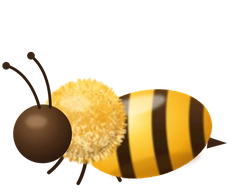
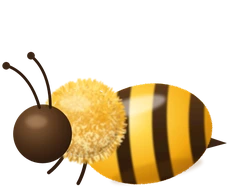
kkotbat: plumper bee abdomen
Claude-Session: https://claude.ai/code/session_0184yXFLd3iSeN51Kdjs7ciF

diff --git a/kkotbat/js/main.js b/kkotbat/js/main.js
@@ -1,14 +1,14 @@
-import { paintMeadow } from './meadow.js?v=1117f';
-import { SeedField } from './seeds.js?v=1117f';
-import { store } from './store.js?v=1117f';
-import { PlantScene } from './plant.js?v=1117f';
-import { GrowScene } from './grow.js?v=1117f';
-import { BloomScene } from './bloom.js?v=1117f';
-import { FlowerField } from './field.js?v=1117f';
-import { GuestbookPanel } from './guestbook.js?v=1117f';
-import { Butterflies } from './butterflies.js?v=1117f';
-import { Bees } from './bees.js?v=1117f';
-import { Ladybugs } from './ladybugs.js?v=1117f';
+import { paintMeadow } from './meadow.js?v=1117g';
+import { SeedField } from './seeds.js?v=1117g';
+import { store } from './store.js?v=1117g';
+import { PlantScene } from './plant.js?v=1117g';
+import { GrowScene } from './grow.js?v=1117g';
+import { BloomScene } from './bloom.js?v=1117g';
+import { FlowerField } from './field.js?v=1117g';
+import { GuestbookPanel } from './guestbook.js?v=1117g';
+import { Butterflies } from './butterflies.js?v=1117g';
+import { Bees } from './bees.js?v=1117g';
+import { Ladybugs } from './ladybugs.js?v=1117g';
 
 // 풀밭(월드) 크기와 지평선 높이
 const WORLD = { width: 3200, height: 2000, horizon: 620 };

diff --git a/kkotbat/js/bees.js b/kkotbat/js/bees.js
@@ -9,9 +9,9 @@ const MAX = 3;
 function beeSVG() {
   const A = 'assets/bee-';
   return `<div class="bee-art" aria-hidden="true">
-    <img class="bee-wing bee-wing-back" src="${A}wingBack.webp?v=1117f" alt="" draggable="false">
-    <img class="bee-body" src="${A}body.webp?v=1117f" alt="" draggable="false">
-    <img class="bee-wing bee-wing-front" src="${A}wingFront.webp?v=1117f" alt="" draggable="false">
+    <img class="bee-wing bee-wing-back" src="${A}wingBack.webp?v=1117g" alt="" draggable="false">
+    <img class="bee-body" src="${A}body.webp?v=1117g" alt="" draggable="false">
+    <img class="bee-wing bee-wing-front" src="${A}wingFront.webp?v=1117g" alt="" draggable="false">
   </div>`;
 }
 

diff --git a/kkotbat/index.html b/kkotbat/index.html
@@ -7,7 +7,7 @@
 <link rel="preconnect" href="https://fonts.googleapis.com">
 <link rel="preconnect" href="https://fonts.gstatic.com" crossorigin>
 <link rel="stylesheet" href="https://fonts.googleapis.com/css2?family=IBM+Plex+Sans+KR:wght@400;500;600;700&display=swap">
-<link rel="stylesheet" href="css/style.css?v=1117f">
+<link rel="stylesheet" href="css/style.css?v=1117g">
 </head>
 <body>
 <div class="app">
@@ -136,6 +136,6 @@
     <div class="toast" id="toast" role="status" aria-live="polite"></div>
   </main>
 </div>
-<script type="module" src="js/main.js?v=1117f"></script>
+<script type="module" src="js/main.js?v=1117g"></script>
 </body>
 </html>

diff --git a/kkotbat/js/field.js b/kkotbat/js/field.js
@@ -4,7 +4,7 @@
 // - 가장 최근에 심어진 꽃 1송이만 은은하게 빛나고 '방금 핀 꽃' 이름표가 붙음.
 //   다음 꽃이 심어지면 강조가 그 꽃으로 넘어감 (여러 사람이 쓰는 꽃밭이라 '내 꽃'을 상시 강조하지 않음)
 
-import { renderRig } from './plantRig.js?v=1117f';
+import { renderRig } from './plantRig.js?v=1117g';
 
 const FLOWER_SIZE = 230; // 풀밭 꽃 크기 (원 안 식물을 이 크기로 축소)
 

diff --git a/kkotbat/js/bloom.js b/kkotbat/js/bloom.js
@@ -3,7 +3,7 @@
 // 04에서 네 번째 미션을 고르면 이어짐: 큰 원 안에 완성된 꽃, 위에서 꽃잎이 흩날리고,
 // 이름과 '고른 순서(레시피)'를 보여준 뒤 '꽃밭에 심기' → 06
 
-import { renderRig } from './plantRig.js?v=1117f';
+import { renderRig } from './plantRig.js?v=1117g';
 
 const $ = (id) => document.getElementById(id);
 const PETAL_COLORS = ['#ffd1e3', '#ffe48a', '#cfe6ff', '#e4d4ff', '#ffffff', '#ffc6b0'];

diff --git a/kkotbat/js/grow.js b/kkotbat/js/grow.js
@@ -5,7 +5,7 @@
 // 미션을 누르면 원 안으로 날아들어가고, 그 즉시 새싹이 변한다.
 // 4개를 고르면 꽃이 피고 'kkotbat:bloomed' 이벤트로 05(개화)에 넘긴다.
 
-import { MISSIONS, SLOTS, renderRig } from './plantRig.js?v=1117f';
+import { MISSIONS, SLOTS, renderRig } from './plantRig.js?v=1117g';
 
 const $ = (id) => document.getElementById(id);
 const VISIBLE = 8;

diff --git a/kkotbat/js/guestbook.js b/kkotbat/js/guestbook.js
@@ -4,7 +4,7 @@
 // - 방명록 목록 (최신순)
 // - 간단한 한 줄 남기기 (최대 40자). 작성자 이름은 내 꽃이 있으면 그 이름, 없으면 직접 입력(선택)
 
-import { renderRig } from './plantRig.js?v=1117f';
+import { renderRig } from './plantRig.js?v=1117g';
 
 const $ = (id) => document.getElementById(id);
 const NOTE_MAX = 40;
